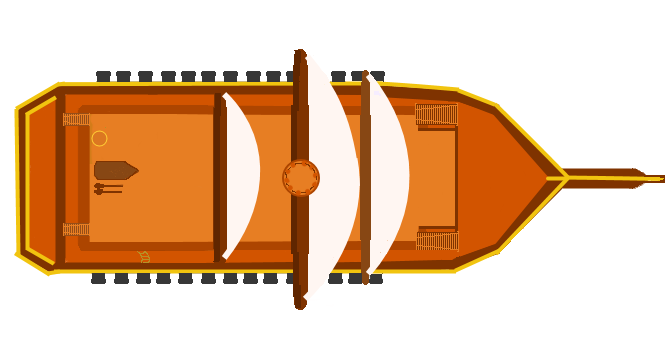
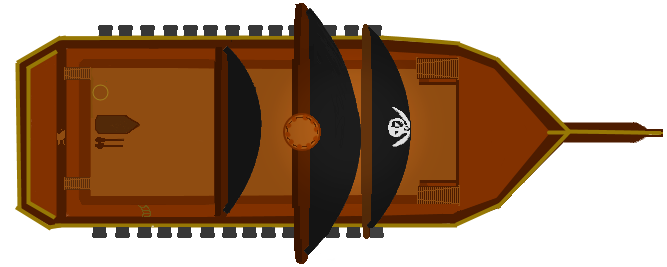
added border, changed ship

diff --git a/front/js/index.js b/front/js/index.js
@@ -60,6 +60,7 @@
         buttonRpressed: new Image(),
         minimap: new Image(),
         bullet: new Image(),
+        border: new Image(),
     }
 
     sprites.ship.src = "img/ship.png"
@@ -71,6 +72,7 @@
     sprites.buttonRpressed.src = "img/buttonRpressed.png"
     sprites.minimap.src = "img/minimap.png"
     sprites.bullet.src = "img/bullet.png"
+    sprites.border.src = "img/border.png"
 
     var lastMousePosition = {
         x: 0, y: 0
@@ -320,11 +322,10 @@
             y: 0.8 * canv.height
         }
 
-        ctx.fillRect(menuCoords.x, menuCoords.y, 0.2 * canv.width, 0.2 * canv.height)
-        ctx.strokeRect(menuCoords.x, menuCoords.y, 0.2 * canv.width, 0.2 * canv.height)
+        ctx.drawImage(sprites.border, 0, 0, canv.width, canv.height)
 
-        ctx.fillStyle = "yellow" 
-        ctx.font = "20px helvetica"
+        ctx.fillStyle = "black" 
+        ctx.font = "40px helvetica"
         let textCoords = {
             x: menuCoords.x + 0.025 * canv.width,
             y: menuCoords.y + 0.1 * canv.height
